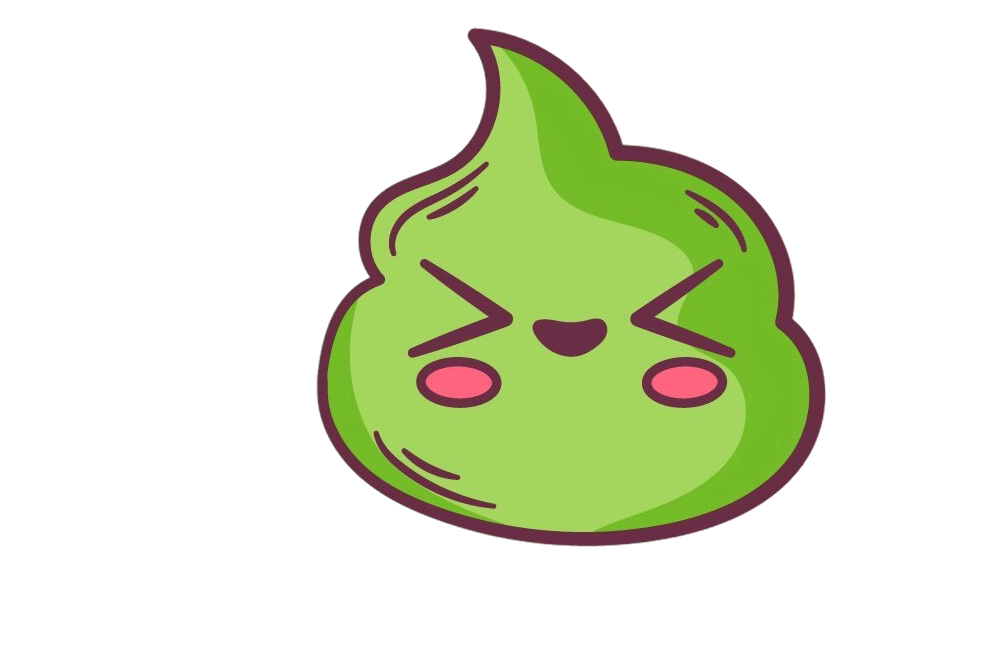
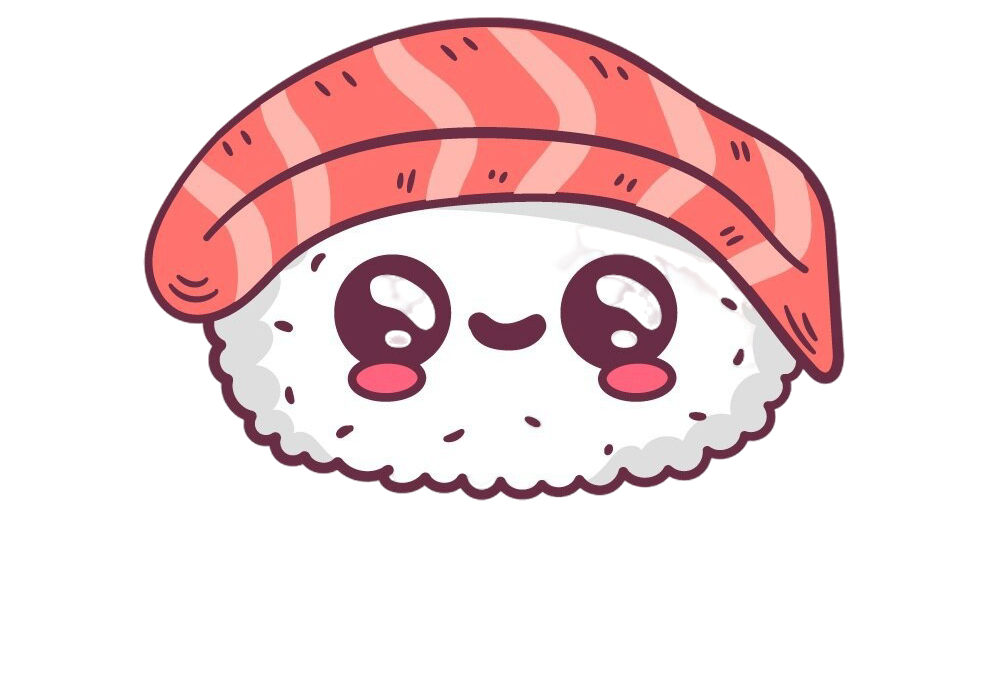
Added movement via LEFT and RIGHT arrow keys.

diff --git a/maguro-game/maguro-game.py b/maguro-game/maguro-game.py
@@ -164,11 +164,11 @@ class Game:
         self.cat_right_base = pygame.image.load("cat.png").convert_alpha()
 
         self.sushi_images = []
-        for i in [1, 2, 4, 5]:
+        for i in [1, 2, 4, 3]:  # sushi5.png renamed to sushi3.png
             img = pygame.image.load(f"sushi{i}.png").convert_alpha()
             img = pygame.transform.smoothscale(img, SUSHI_SIZE)
             self.sushi_images.append(img)
-        self.wasabi_img = pygame.image.load("sushi3.png").convert_alpha()
+        self.wasabi_img = pygame.image.load("wasabi.png").convert_alpha()  # sushi3.png renamed to wasabi.png
         self.wasabi_img = pygame.transform.smoothscale(self.wasabi_img, SUSHI_SIZE)
 
         self.cloud_base = pygame.image.load("cloud.png").convert_alpha()
@@ -368,10 +368,10 @@ class Game:
 
             if not self.game_over:
                 # Handle input
-                if keys[pygame.K_a]:
+                if keys[pygame.K_a] or keys[pygame.K_LEFT]:
                     move = -1
                     self.cat.facing = "left"
-                elif keys[pygame.K_d]:
+                elif keys[pygame.K_d] or keys[pygame.K_RIGHT]:
                     move = 1
                     self.cat.facing = "right"
 
